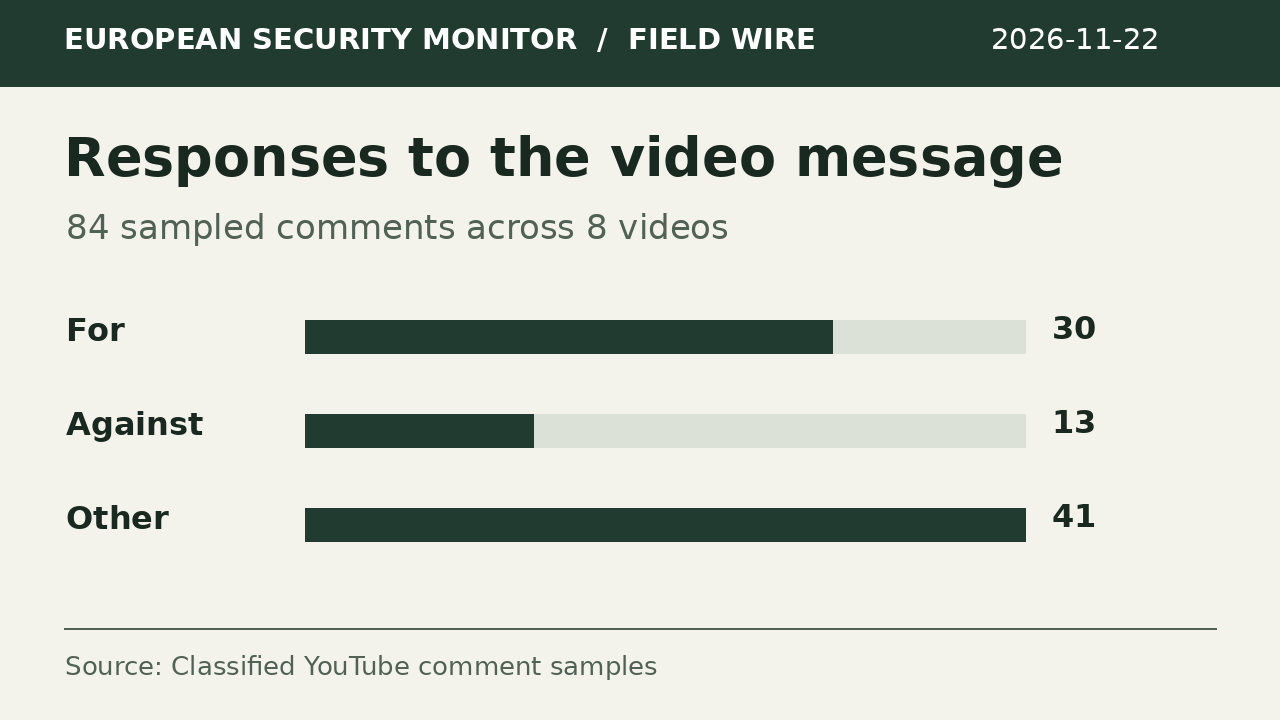
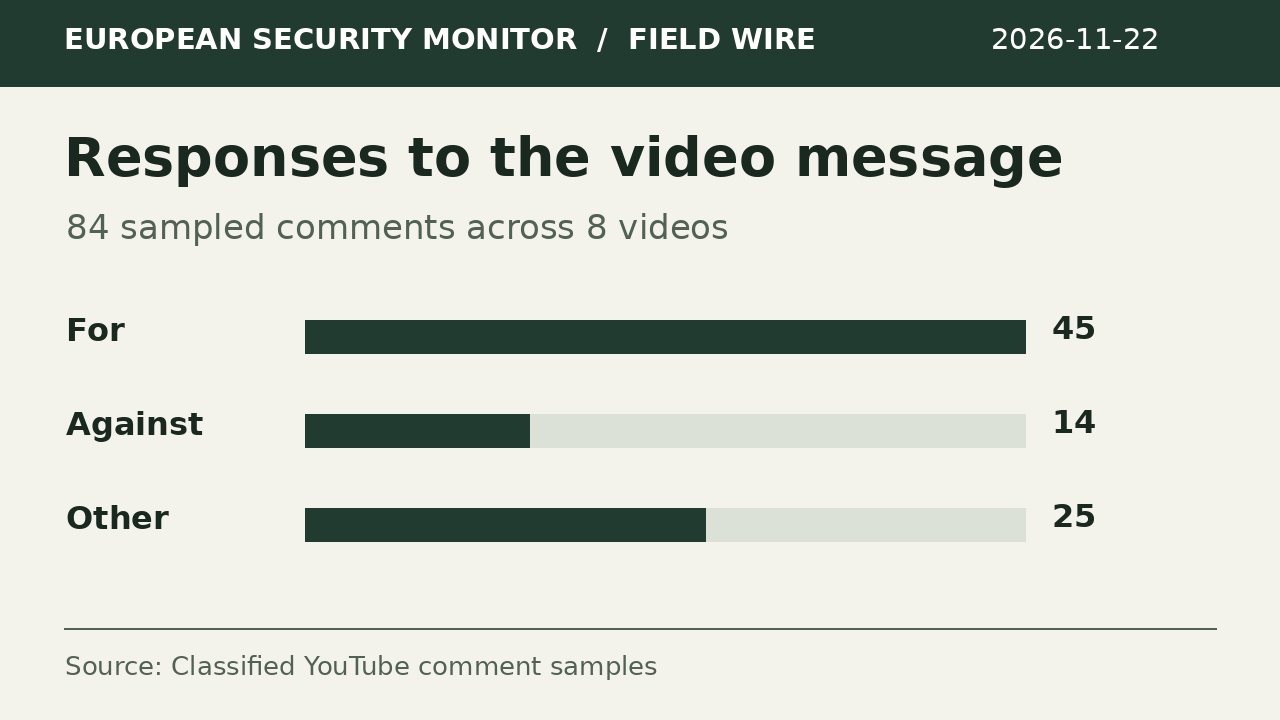
Publish Field Wire edition

Changed region(s): [[0.5312, 0.7028, 0.875, 0.7639], [0.625, 0.4278, 0.875, 0.4889], [0.8438, 0.5806, 0.875, 0.6111]]

diff --git a/editions/2026-11-22/index.html b/editions/2026-11-22/index.html
@@ -1,7 +1,7 @@
 <!doctype html><html lang="en"><head><meta charset="utf-8"><meta name="viewport" content="width=device-width,initial-scale=1">
-<title>Field Wire · 2026-11-22 | European Security Monitor</title><meta name="description" content="2026-11-22 · 84 sampled comments across 8 videos. For 30, Against 13, Other 41.">
+<title>Field Wire · 2026-11-22 | European Security Monitor</title><meta name="description" content="2026-11-22 · 84 sampled comments across 8 videos. For 45, Against 14, Other 25.">
 <meta name="author" content="Kedma Hamelberg"><meta name="robots" content="max-image-preview:large">
-<link rel="canonical" href="https://monitor.hamelberg-ai.com/field-wire/2026-11-22/"><meta property="og:url" content="https://monitor.hamelberg-ai.com/field-wire/2026-11-22/"><meta property="og:title" content="Field Wire · 2026-11-22 | European Security Monitor"><meta property="og:description" content="2026-11-22 · 84 sampled comments across 8 videos. For 30, Against 13, Other 41."><meta property="og:image" content="https://monitor.hamelberg-ai.com/field-wire/2026-11-22/preview.png"><meta property="og:image:width" content="1280"><meta property="og:image:height" content="720"><meta property="og:image:alt" content="Responses to the video message. 84 sampled comments across 8 videos. For 30, Against 13, Other 41."><meta name="twitter:card" content="summary_large_image"><meta name="twitter:image" content="https://monitor.hamelberg-ai.com/field-wire/2026-11-22/preview.png">
+<link rel="canonical" href="https://monitor.hamelberg-ai.com/field-wire/2026-11-22/"><meta property="og:url" content="https://monitor.hamelberg-ai.com/field-wire/2026-11-22/"><meta property="og:title" content="Field Wire · 2026-11-22 | European Security Monitor"><meta property="og:description" content="2026-11-22 · 84 sampled comments across 8 videos. For 45, Against 14, Other 25."><meta property="og:image" content="https://monitor.hamelberg-ai.com/field-wire/2026-11-22/preview.png"><meta property="og:image:width" content="1280"><meta property="og:image:height" content="720"><meta property="og:image:alt" content="Responses to the video message. 84 sampled comments across 8 videos. For 45, Against 14, Other 25."><meta name="twitter:card" content="summary_large_image"><meta name="twitter:image" content="https://monitor.hamelberg-ai.com/field-wire/2026-11-22/preview.png">
 <link rel="stylesheet" href="/field-wire/wire.css?v=edition1"><script defer src="/field-wire/wire.js?v=ledger1"></script><script defer src="/field-wire/engagement.js?v=edition1"></script><script defer src="/analytics.js"></script></head>
 <body data-edition="/field-wire/2026-11-22/"><a class="skip" href="#main">Skip to dispatches</a><header><a class="brand" href="/">⌖ ESM</a><nav aria-label="Main navigation"><a href="/#monitor">Situation room</a><a aria-current="page" href="/field-wire/">Field Wire</a><a href="/#government">Government narratives</a><a href="/#evidence">Source archive</a><a href="/#methodology">Methods</a></nav></header>
 <main id="main"><div class="mast"><div><small>European Security Monitor</small><h1>Field Wire · 2026-11-22</h1></div><div class="edition">Latest source date<br><time>2026-11-22</time></div></div>
@@ -9,8 +9,8 @@
 <div class="layout"><section id="dispatches"><div class="section-head"><h2>Dispatch log</h2><div id="filters" hidden><button data-filter="All" aria-pressed="true">All</button><button data-filter="Gov" aria-pressed="false">Government</button><button data-filter="Video" aria-pressed="false">YouTube</button></div></div>
 <table class="dispatches"><thead><tr><th scope="col">Filed</th><th scope="col">Dispatch</th><th scope="col">Visual</th></tr></thead><tbody><tr id="gov-cebdeb74bba71c9b0eca" data-wire="gov-cebdeb74bba71c9b0eca" data-desk="Gov"><td class="stamp"><time datetime="2026-11-22">22 Nov</time><b>Gov</b></td><td class="copy"><h3>Portugal’s SIRESP exercise tests emergency communications resilience during simulated digital-system failure.</h3><small>Portugal · <a class="source" href="/?record=cebdeb74bba71c9b0eca#government">Source ↗</a></small></td><td class="visual"><figure class="activity"><b>PT</b><div class="pulse"><i style="height:100.0%"><span>6</span></i><i style="height:16.7%"><span>1</span></i><i style="height:16.7%"><span>1</span></i><i style="height:0.0%"><span>0</span></i><i style="height:0.0%"><span>0</span></i><i style="height:0.0%"><span>0</span></i><i style="height:16.7%"><span>1</span></i></div><figcaption>Related releases · 16 Nov–22 Nov</figcaption></figure></td></tr><tr id="gov-91719fb852b116f94267-f6640e4eee86" data-wire="gov-91719fb852b116f94267" data-desk="Gov"><td class="stamp"><time datetime="2026-11-21">21 Nov</time><b>Gov</b></td><td class="copy"><h3>UK and Netherlands leaders pledge continued support for Ukraine and pressure on Russia to negotiate.</h3><small>United Kingdom · <a class="source" href="/?record=91719fb852b116f94267#government">Source ↗</a></small></td><td class="visual"><figure class="activity"><b>GB</b><div class="pulse"><i style="height:0.0%"><span>0</span></i><i style="height:25.0%"><span>1</span></i><i style="height:0.0%"><span>0</span></i><i style="height:25.0%"><span>1</span></i><i style="height:50.0%"><span>2</span></i><i style="height:100.0%"><span>4</span></i><i style="height:25.0%"><span>1</span></i></div><figcaption>Related releases · 15 Nov–21 Nov</figcaption></figure></td></tr><tr id="gov-0513b16aca4002401dda" data-wire="gov-0513b16aca4002401dda" data-desk="Gov"><td class="stamp"><time datetime="2026-11-21">21 Nov</time><b>Gov</b></td><td class="copy"><h3>Merz calls for an affordable EU budget that strengthens defence and provides sustained support for Ukraine.</h3><small>Germany · <a class="source" href="/?record=0513b16aca4002401dda#government">Source ↗</a></small></td><td class="visual"><figure class="activity"><b>DE</b><div class="pulse"><i style="height:0.0%"><span>0</span></i><i style="height:25.0%"><span>1</span></i><i style="height:0.0%"><span>0</span></i><i style="height:25.0%"><span>1</span></i><i style="height:25.0%"><span>1</span></i><i style="height:100.0%"><span>4</span></i><i style="height:50.0%"><span>2</span></i></div><figcaption>Related releases · 15 Nov–21 Nov</figcaption></figure></td></tr><tr id="gov-e30c8772afa0c62b064b" data-wire="gov-e30c8772afa0c62b064b" data-desk="Gov"><td class="stamp"><time datetime="2026-11-21">21 Nov</time><b>Gov</b></td><td class="copy"><h3>Germany, Spain and France back ARTE’s expansion in Spain as a step toward a pluralistic European media ecosystem.</h3><small>Germany · <a class="source" href="/?record=e30c8772afa0c62b064b#government">Source ↗</a></small></td><td class="visual"><figure class="activity"><b>DE</b><div class="pulse"><i style="height:0.0%"><span>0</span></i><i style="height:25.0%"><span>1</span></i><i style="height:0.0%"><span>0</span></i><i style="height:25.0%"><span>1</span></i><i style="height:25.0%"><span>1</span></i><i style="height:100.0%"><span>4</span></i><i style="height:50.0%"><span>2</span></i></div><figcaption>Related releases · 15 Nov–21 Nov</figcaption></figure></td></tr><tr id="gov-fb461a0791d57f9e1104" data-wire="gov-fb461a0791d57f9e1104" data-desk="Gov"><td class="stamp"><time datetime="2026-11-21">21 Nov</time><b>Gov</b></td><td class="copy"><h3>The Netherlands culls infected birds and imposes transport restrictions to contain avian influenza.</h3><small>Netherlands · <a class="source" href="/?record=fb461a0791d57f9e1104#government">Source ↗</a></small></td><td class="visual"><figure class="activity"><b>NL</b><div class="pulse"><i style="height:25.0%"><span>1</span></i><i style="height:75.0%"><span>3</span></i><i style="height:75.0%"><span>3</span></i><i style="height:25.0%"><span>1</span></i><i style="height:100.0%"><span>4</span></i><i style="height:100.0%"><span>4</span></i><i style="height:25.0%"><span>1</span></i></div><figcaption>Related releases · 15 Nov–21 Nov</figcaption></figure></td></tr><tr id="gov-516836f0e6b103151610" data-wire="gov-516836f0e6b103151610" data-desk="Gov"><td class="stamp"><time datetime="2026-11-21">21 Nov</time><b>Gov</b></td><td class="copy"><h3>Iceland links climate risks and imported fossil-fuel dependence to security, and backs ocean monitoring and geothermal energy.</h3><small>Iceland · <a class="source" href="/?record=516836f0e6b103151610#government">Source ↗</a></small></td><td class="visual"><figure class="activity"><b>IS</b><div class="pulse"><i style="height:33.3%"><span>1</span></i><i style="height:33.3%"><span>1</span></i><i style="height:33.3%"><span>1</span></i><i style="height:100.0%"><span>3</span></i><i style="height:0.0%"><span>0</span></i><i style="height:66.7%"><span>2</span></i><i style="height:33.3%"><span>1</span></i></div><figcaption>Related releases · 15 Nov–21 Nov</figcaption></figure></td></tr><tr id="gov-0dbe2bdd816600655a1a" data-wire="gov-0dbe2bdd816600655a1a" data-desk="Gov"><td class="stamp"><time datetime="2026-11-21">21 Nov</time><b>Gov</b></td><td class="copy"><h3>Italy condemns security incidents affecting Denmark and Poland and calls for united European action.</h3><small>Italy · <a class="source" href="/?record=0dbe2bdd816600655a1a#government">Source ↗</a></small></td><td class="visual"><figure class="activity"><b>IT</b><div class="pulse"><i style="height:100.0%"><span>1</span></i><i style="height:100.0%"><span>1</span></i><i style="height:0.0%"><span>0</span></i><i style="height:0.0%"><span>0</span></i><i style="height:0.0%"><span>0</span></i><i style="height:0.0%"><span>0</span></i><i style="height:100.0%"><span>1</span></i></div><figcaption>Related releases · 15 Nov–21 Nov</figcaption></figure></td></tr><tr id="gov-58195c888455c8fbf5ad" data-wire="gov-58195c888455c8fbf5ad" data-desk="Gov"><td class="stamp"><time datetime="2026-11-21">21 Nov</time><b>Gov</b></td><td class="copy"><h3>Pashinyan promotes Armenia’s AI hub ambitions and energy independence through renewables, storage and regional grid links.</h3><small>Armenia · <a class="source" href="/?record=58195c888455c8fbf5ad#government">Source ↗</a></small></td><td class="visual"><figure class="activity"><b>AM</b><div class="pulse"><i style="height:100.0%"><span>1</span></i><i style="height:0.0%"><span>0</span></i><i style="height:0.0%"><span>0</span></i><i style="height:0.0%"><span>0</span></i><i style="height:100.0%"><span>1</span></i><i style="height:0.0%"><span>0</span></i><i style="height:100.0%"><span>1</span></i></div><figcaption>Related releases · 15 Nov–21 Nov</figcaption></figure></td></tr><tr id="video-5SP3QCCecAQ" data-wire="video-5SP3QCCecAQ" data-desk="Video"><td class="stamp"><time datetime="2026-11-21">21 Nov</time><b>Video</b></td><td class="copy"><h3>Historical border that cut Croatia in two and persisted into modern times.</h3><small>Map Gaps Daily · <a class="source" href="/?record=5SP3QCCecAQ&amp;week=2026-W47#evidence">Source ↗</a></small></td><td class="visual"><figure class="cover"><img alt="" width="320" height="180" src="https://i.ytimg.com/vi/5SP3QCCecAQ/mqdefault.jpg"></figure></td></tr><tr id="video-55rbep7vYbc" data-wire="video-55rbep7vYbc" data-desk="Video"><td class="stamp"><time datetime="2026-11-21">21 Nov</time><b>Video</b></td><td class="copy"><h3>Opposition leader Isak Ember says Azerbaijan prevented his travel abroad, highlighting limits on exit from the country.</h3><small>BBC News Azərbaycanca · <a class="source" href="/?record=55rbep7vYbc&amp;week=2026-W47#evidence">Source ↗</a></small></td><td class="visual"><figure class="cover"><img alt="" width="320" height="180" src="https://i.ytimg.com/vi/55rbep7vYbc/mqdefault.jpg"></figure></td></tr><tr id="video-4ALbwIEyRI4" data-wire="video-4ALbwIEyRI4" data-desk="Video"><td class="stamp"><time datetime="2026-11-21">21 Nov</time><b>Video</b></td><td class="copy"><h3>The Ottoman Empire uniquely opposed recognizing Poland&#x27;s partition, contrasting with France, Britain, and Russia/Prussia.</h3><small>Ancient History Lol · <a class="source" href="/?record=4ALbwIEyRI4&amp;week=2026-W47#evidence">Source ↗</a></small></td><td class="visual"><figure class="cover"><img alt="" width="320" height="180" src="https://i.ytimg.com/vi/4ALbwIEyRI4/mqdefault.jpg"></figure></td></tr><tr id="video-1y5_cS93beM" data-wire="video-1y5_cS93beM" data-desk="Video"><td class="stamp"><time datetime="2026-11-21">21 Nov</time><b>Video</b></td><td class="copy"><h3>Historical narration of Portugal’s 1543 contact with Japan, including initial Portuguese presence and trade.</h3><small>itsaihistory · <a class="source" href="/?record=1y5_cS93beM&amp;week=2026-W47#evidence">Source ↗</a></small></td><td class="visual"><figure class="cover"><img alt="" width="320" height="180" src="https://i.ytimg.com/vi/1y5_cS93beM/mqdefault.jpg"></figure></td></tr><tr id="video-2NU6dEmhu6E" data-wire="video-2NU6dEmhu6E" data-desk="Video"><td class="stamp"><time datetime="2026-11-21">21 Nov</time><b>Video</b></td><td class="copy"><h3>Azerbaijan expresses condolences and solidarity with Georgia after a deadly explosion inPanechal.</h3><small>GeorgiaPress · <a class="source" href="/?record=2NU6dEmhu6E&amp;week=2026-W47#evidence">Source ↗</a></small></td><td class="visual"><figure class="cover"><img alt="" width="320" height="180" src="https://i.ytimg.com/vi/2NU6dEmhu6E/mqdefault.jpg"></figure></td></tr><tr id="video--TOoQqbA7Ys" data-wire="video--TOoQqbA7Ys" data-desk="Video"><td class="stamp"><time datetime="2026-11-20">20 Nov</time><b>Video</b></td><td class="copy"><h3>A historical map animation shows real borders of the Portuguese Empire, flags by era, and a land-left counter, inviting discussion on which empire falls next.</h3><small>QzQGeo · <a class="source" href="/?record=-TOoQqbA7Ys&amp;week=2026-W47#evidence">Source ↗</a></small></td><td class="visual"><figure class="cover"><img alt="" width="320" height="180" src="https://i.ytimg.com/vi/-TOoQqbA7Ys/mqdefault.jpg"></figure></td></tr><tr id="video-_R41YwshfYI" data-wire="video-_R41YwshfYI" data-desk="Video"><td class="stamp"><time datetime="2026-11-20">20 Nov</time><b>Video</b></td><td class="copy"><h3>Greece’s prime minister describes a post-crisis rebound with debt reduction and rising investment, highlighting fiscal responsibility.</h3><small>The Wall Street Journal · <a class="source" href="/?record=_R41YwshfYI&amp;week=2026-W47#evidence">Source ↗</a></small></td><td class="visual"><figure class="cover"><img alt="" width="320" height="180" src="https://i.ytimg.com/vi/_R41YwshfYI/mqdefault.jpg"></figure></td></tr><tr id="video-_rIE5RmeKDI" data-wire="video-_rIE5RmeKDI" data-desk="Video"><td class="stamp"><time datetime="2026-11-20">20 Nov</time><b>Video</b></td><td class="copy"><h3>Humorous claim about Switzerland invading Liechtenstein despite neutrality; treats neutrality as a joke.</h3><small>Mapa y Fronteras · <a class="source" href="/?record=_rIE5RmeKDI&amp;week=2026-W47#evidence">Source ↗</a></small></td><td class="visual"><figure class="cover"><img alt="" width="320" height="180" src="https://i.ytimg.com/vi/_rIE5RmeKDI/mqdefault.jpg"></figure></td></tr></tbody></table></section>
 <div class="rail"><section id="audience"><div class="section-head"><h2>Audience reports</h2></div><p class="table-note">Latest classified sample for each video. For and Against count responses to its message. Other includes mixed, unclear, unrelated and no position.</p>
-<table class="reports"><thead><tr><th scope="col">Viewer response / video</th><th scope="col">Total</th><th scope="col">For</th><th scope="col">Against</th><th scope="col">Other</th></tr></thead><tbody><tr id="comments-2026-W47-4ALbwIEyRI4" data-wire="comments-2026-W47-4ALbwIEyRI4"><td class="copy"><h3>5 of 8 backed the message.</h3><p class="video-context">Video: The Ottoman Empire uniquely opposed recognizing Poland&#x27;s partition, contrasting with France, Britain, and Russia/Prussia.</p><a class="source" href="/?record=4ALbwIEyRI4&amp;week=2026-W47#evidence">Source ↗</a><small>Ancient History Lol · 2026-W47</small></td><td class="num">8</td><td class="num positive">5</td><td class="num negative">1</td><td class="num" title="opposes 1, supports 5, unrelated 2">2</td></tr><tr id="comments-2026-W47-1y5_cS93beM" data-wire="comments-2026-W47-1y5_cS93beM"><td class="copy"><h3>0 backed the message and 2 opposed it (9 sampled).</h3><p class="video-context">Video: Historical narration of Portugal’s 1543 contact with Japan, including initial Portuguese presence and trade.</p><a class="source" href="/?record=1y5_cS93beM&amp;week=2026-W47#evidence">Source ↗</a><small>itsaihistory · 2026-W47</small></td><td class="num">9</td><td class="num positive">0</td><td class="num negative">2</td><td class="num" title="no position 1, opposes 2, unclear 3, unrelated 3">7</td></tr><tr id="comments-2026-W47-2NU6dEmhu6E" data-wire="comments-2026-W47-2NU6dEmhu6E"><td class="copy"><h3>5 of 5 backed the message.</h3><p class="video-context">Video: Azerbaijan expresses condolences and solidarity with Georgia after a deadly explosion inPanechal.</p><a class="source" href="/?record=2NU6dEmhu6E&amp;week=2026-W47#evidence">Source ↗</a><small>GeorgiaPress · 2026-W47</small></td><td class="num">5</td><td class="num positive">5</td><td class="num negative">0</td><td class="num" title="supports 5">0</td></tr><tr id="comments-2026-W47--TOoQqbA7Ys" data-wire="comments-2026-W47--TOoQqbA7Ys"><td class="copy"><h3>3 of 7 discussed something else.</h3><p class="video-context">Video: A historical map animation shows real borders of the Portuguese Empire, flags by era, and a land-left counter, inviting discussion on which empire falls next.</p><a class="source" href="/?record=-TOoQqbA7Ys&amp;week=2026-W47#evidence">Source ↗</a><small>QzQGeo · 2026-W47</small></td><td class="num">7</td><td class="num positive">2</td><td class="num negative">0</td><td class="num" title="supports 2, unclear 2, unrelated 3">5</td></tr><tr id="comments-2026-W47-_R41YwshfYI" data-wire="comments-2026-W47-_R41YwshfYI"><td class="copy"><h3>6 of 13 backed the message.</h3><p class="video-context">Video: Greece’s prime minister describes a post-crisis rebound with debt reduction and rising investment, highlighting fiscal responsibility.</p><a class="source" href="/?record=_R41YwshfYI&amp;week=2026-W47#evidence">Source ↗</a><small>The Wall Street Journal · 2026-W47</small></td><td class="num">13</td><td class="num positive">6</td><td class="num negative">3</td><td class="num" title="opposes 3, supports 6, unrelated 4">4</td></tr><tr id="comments-2026-W47-_rIE5RmeKDI" data-wire="comments-2026-W47-_rIE5RmeKDI"><td class="copy"><h3>6 of 9 backed the message.</h3><p class="video-context">Video: Humorous claim about Switzerland invading Liechtenstein despite neutrality; treats neutrality as a joke.</p><a class="source" href="/?record=_rIE5RmeKDI&amp;week=2026-W47#evidence">Source ↗</a><small>Mapa y Fronteras · 2026-W47</small></td><td class="num">9</td><td class="num positive">6</td><td class="num negative">3</td><td class="num" title="opposes 3, supports 6">0</td></tr><tr id="comments-2026-W47-0SatFMYQjcw" data-wire="comments-2026-W47-0SatFMYQjcw"><td class="copy"><h3>2 of 3 took no position.</h3><p class="video-context">Video: Question for Montenegrins about a possible Serbia-Montenegro union and giving up the capital Podgorica.</p><a class="source" href="/?record=0SatFMYQjcw&amp;week=2026-W47#evidence">Source ↗</a><small>DailyShortsKnowledge · 2026-W47</small></td><td class="num">3</td><td class="num positive">0</td><td class="num negative">1</td><td class="num" title="no position 2, opposes 1">2</td></tr><tr id="comments-2026-W47-2AorXjWxihs" data-wire="comments-2026-W47-2AorXjWxihs"><td class="copy"><h3>9 of 30 discussed something else.</h3><p class="video-context">Video: Video fragment includes a call to &#x27;Germany, stop!&#x27; reflecting a war-related tension.</p><a class="source" href="/?record=2AorXjWxihs&amp;week=2026-W47#evidence">Source ↗</a><small>BorderBall · 2026-W47</small></td><td class="num">30</td><td class="num positive">6</td><td class="num negative">3</td><td class="num" title="no position 7, opposes 3, supports 6, unclear 5, unrelated 9">21</td></tr></tbody></table></section>
-<figure class="edition-chart"><a href="https://monitor.hamelberg-ai.com/field-wire/2026-11-22/preview.png"><img src="https://monitor.hamelberg-ai.com/field-wire/2026-11-22/preview.png" width="1280" height="720" loading="lazy" alt="Responses to the video message. 84 sampled comments across 8 videos. For 30, Against 13, Other 41."></a><figcaption><b>Responses to the video message</b> 84 sampled comments across 8 videos. For 30, Against 13, Other 41. <a href="/field-wire/2026-11-22/#audience">Classified YouTube comment samples</a></figcaption></figure><aside class="ad-reserve" aria-label="Reserved advertisement space"><span>Advertisements</span></aside></div></div><section><h2>Earlier filings</h2><table><thead><tr><th scope="col">Filed</th><th scope="col">Dispatch</th><th scope="col">Visual</th></tr></thead><tbody><tr id="gov-3c005ad190ec02d63761" data-wire="gov-3c005ad190ec02d63761" data-desk="Gov"><td class="stamp"><time datetime="2026-11-21">21 Nov</time><b>Gov</b></td><td class="copy"><h3>Li and Wong call for closer China-Singapore ties, regional integration and cooperation across multiple sectors.</h3><small>China · <a class="source" href="/?record=3c005ad190ec02d63761#government">Source ↗</a></small></td><td class="visual"><figure class="activity"><b>CN</b><div class="pulse"><i style="height:0.0%"><span>0</span></i><i style="height:25.0%"><span>2</span></i><i style="height:62.5%"><span>5</span></i><i style="height:75.0%"><span>6</span></i><i style="height:100.0%"><span>8</span></i><i style="height:100.0%"><span>8</span></i><i style="height:12.5%"><span>1</span></i></div><figcaption>Related releases · 15 Nov–21 Nov</figcaption></figure></td></tr></tbody></table><table><thead><tr><th scope="col">Filed</th><th scope="col">Dispatch</th><th scope="col">Visual</th></tr></thead><tbody><tr id="gov-91719fb852b116f94267" data-wire="gov-91719fb852b116f94267" data-desk="Gov"><td class="stamp"><time datetime="2026-11-21">21 Nov</time><b>Gov</b></td><td class="copy"><h3>UK and Netherlands leaders pledge continued support for Ukraine and pressure on Russia to negotiate.</h3><small>United Kingdom · <a class="source" href="/?record=91719fb852b116f94267#government">Source ↗</a></small></td><td class="visual"><figure class="activity"><b>GB</b><div class="pulse"><i style="height:0.0%"><span>0</span></i><i style="height:33.3%"><span>1</span></i><i style="height:0.0%"><span>0</span></i><i style="height:33.3%"><span>1</span></i><i style="height:66.7%"><span>2</span></i><i style="height:100.0%"><span>3</span></i><i style="height:33.3%"><span>1</span></i></div><figcaption>Related releases · 15 Nov–21 Nov</figcaption></figure></td></tr></tbody></table></section></main>
+<table class="reports"><thead><tr><th scope="col">Viewer response / video</th><th scope="col">Total</th><th scope="col">For</th><th scope="col">Against</th><th scope="col">Other</th></tr></thead><tbody><tr id="comments-2026-W47-4ALbwIEyRI4" data-wire="comments-2026-W47-4ALbwIEyRI4"><td class="copy"><h3>5 of 8 backed the message.</h3><p class="video-context">Video: The Ottoman Empire uniquely opposed recognizing Poland&#x27;s partition, contrasting with France, Britain, and Russia/Prussia.</p><a class="source" href="/?record=4ALbwIEyRI4&amp;week=2026-W47#evidence">Source ↗</a><small>Ancient History Lol · 2026-W47</small></td><td class="num">8</td><td class="num positive">5</td><td class="num negative">1</td><td class="num" title="opposes 1, supports 5, unrelated 2">2</td></tr><tr id="comments-2026-W47-1y5_cS93beM-022e97e0839b" data-wire="comments-2026-W47-1y5_cS93beM"><td class="copy"><h3>5 of 9 backed the message.</h3><p class="video-context">Video: Historical narration of Portugal’s 1543 contact with Japan, including initial Portuguese presence and trade.</p><a class="source" href="/?record=1y5_cS93beM&amp;week=2026-W47#evidence">Source ↗</a><small>itsaihistory · 2026-W47</small></td><td class="num">9</td><td class="num positive">5</td><td class="num negative">1</td><td class="num" title="mixed 2, opposes 1, supports 5, unrelated 1">3</td></tr><tr id="comments-2026-W47-2NU6dEmhu6E" data-wire="comments-2026-W47-2NU6dEmhu6E"><td class="copy"><h3>5 of 5 backed the message.</h3><p class="video-context">Video: Azerbaijan expresses condolences and solidarity with Georgia after a deadly explosion inPanechal.</p><a class="source" href="/?record=2NU6dEmhu6E&amp;week=2026-W47#evidence">Source ↗</a><small>GeorgiaPress · 2026-W47</small></td><td class="num">5</td><td class="num positive">5</td><td class="num negative">0</td><td class="num" title="supports 5">0</td></tr><tr id="comments-2026-W47--TOoQqbA7Ys" data-wire="comments-2026-W47--TOoQqbA7Ys"><td class="copy"><h3>3 of 7 discussed something else.</h3><p class="video-context">Video: A historical map animation shows real borders of the Portuguese Empire, flags by era, and a land-left counter, inviting discussion on which empire falls next.</p><a class="source" href="/?record=-TOoQqbA7Ys&amp;week=2026-W47#evidence">Source ↗</a><small>QzQGeo · 2026-W47</small></td><td class="num">7</td><td class="num positive">2</td><td class="num negative">0</td><td class="num" title="supports 2, unclear 2, unrelated 3">5</td></tr><tr id="comments-2026-W47-_R41YwshfYI" data-wire="comments-2026-W47-_R41YwshfYI"><td class="copy"><h3>6 of 13 backed the message.</h3><p class="video-context">Video: Greece’s prime minister describes a post-crisis rebound with debt reduction and rising investment, highlighting fiscal responsibility.</p><a class="source" href="/?record=_R41YwshfYI&amp;week=2026-W47#evidence">Source ↗</a><small>The Wall Street Journal · 2026-W47</small></td><td class="num">13</td><td class="num positive">6</td><td class="num negative">3</td><td class="num" title="opposes 3, supports 6, unrelated 4">4</td></tr><tr id="comments-2026-W47-_rIE5RmeKDI" data-wire="comments-2026-W47-_rIE5RmeKDI"><td class="copy"><h3>6 of 9 backed the message.</h3><p class="video-context">Video: Humorous claim about Switzerland invading Liechtenstein despite neutrality; treats neutrality as a joke.</p><a class="source" href="/?record=_rIE5RmeKDI&amp;week=2026-W47#evidence">Source ↗</a><small>Mapa y Fronteras · 2026-W47</small></td><td class="num">9</td><td class="num positive">6</td><td class="num negative">3</td><td class="num" title="opposes 3, supports 6">0</td></tr><tr id="comments-2026-W47-0SatFMYQjcw-774a997b5504" data-wire="comments-2026-W47-0SatFMYQjcw"><td class="copy"><h3>2 of 3 backed the message.</h3><p class="video-context">Video: Question for Montenegrins about a possible Serbia-Montenegro union and giving up the capital Podgorica.</p><a class="source" href="/?record=0SatFMYQjcw&amp;week=2026-W47#evidence">Source ↗</a><small>DailyShortsKnowledge · 2026-W47</small></td><td class="num">3</td><td class="num positive">2</td><td class="num negative">1</td><td class="num" title="opposes 1, supports 2">0</td></tr><tr id="comments-2026-W47-2AorXjWxihs-d1b6f55e59bd" data-wire="comments-2026-W47-2AorXjWxihs"><td class="copy"><h3>14 of 30 backed the message.</h3><p class="video-context">Video: Video fragment includes a call to &#x27;Germany, stop!&#x27; reflecting a war-related tension.</p><a class="source" href="/?record=2AorXjWxihs&amp;week=2026-W47#evidence">Source ↗</a><small>BorderBall · 2026-W47</small></td><td class="num">30</td><td class="num positive">14</td><td class="num negative">5</td><td class="num" title="no position 4, opposes 5, supports 14, unclear 4, unrelated 3">11</td></tr></tbody></table></section>
+<figure class="edition-chart"><a href="https://monitor.hamelberg-ai.com/field-wire/2026-11-22/preview.png"><img src="https://monitor.hamelberg-ai.com/field-wire/2026-11-22/preview.png" width="1280" height="720" loading="lazy" alt="Responses to the video message. 84 sampled comments across 8 videos. For 45, Against 14, Other 25."></a><figcaption><b>Responses to the video message</b> 84 sampled comments across 8 videos. For 45, Against 14, Other 25. <a href="/field-wire/2026-11-22/#audience">Classified YouTube comment samples</a></figcaption></figure><aside class="ad-reserve" aria-label="Reserved advertisement space"><span>Advertisements</span></aside></div></div><section><h2>Earlier filings</h2><table><thead><tr><th scope="col">Report</th><th scope="col">Total</th><th scope="col">For</th><th scope="col">Against</th><th scope="col">Other</th></tr></thead><tbody><tr id="comments-2026-W47-0SatFMYQjcw" data-wire="comments-2026-W47-0SatFMYQjcw"><td class="copy"><h3>2 of 3 took no position.</h3><p class="video-context">Video: Question for Montenegrins about a possible Serbia-Montenegro union and giving up the capital Podgorica.</p><a class="source" href="/?record=0SatFMYQjcw&amp;week=2026-W47#evidence">Source ↗</a><small>DailyShortsKnowledge · 2026-W47</small></td><td class="num">3</td><td class="num positive">0</td><td class="num negative">1</td><td class="num" title="no position 2, opposes 1">2</td></tr></tbody></table><table><thead><tr><th scope="col">Report</th><th scope="col">Total</th><th scope="col">For</th><th scope="col">Against</th><th scope="col">Other</th></tr></thead><tbody><tr id="comments-2026-W47-1y5_cS93beM" data-wire="comments-2026-W47-1y5_cS93beM"><td class="copy"><h3>0 backed the message and 2 opposed it (9 sampled).</h3><p class="video-context">Video: Historical narration of Portugal’s 1543 contact with Japan, including initial Portuguese presence and trade.</p><a class="source" href="/?record=1y5_cS93beM&amp;week=2026-W47#evidence">Source ↗</a><small>itsaihistory · 2026-W47</small></td><td class="num">9</td><td class="num positive">0</td><td class="num negative">2</td><td class="num" title="no position 1, opposes 2, unclear 3, unrelated 3">7</td></tr></tbody></table><table><thead><tr><th scope="col">Report</th><th scope="col">Total</th><th scope="col">For</th><th scope="col">Against</th><th scope="col">Other</th></tr></thead><tbody><tr id="comments-2026-W47-2AorXjWxihs" data-wire="comments-2026-W47-2AorXjWxihs"><td class="copy"><h3>9 of 30 discussed something else.</h3><p class="video-context">Video: Video fragment includes a call to &#x27;Germany, stop!&#x27; reflecting a war-related tension.</p><a class="source" href="/?record=2AorXjWxihs&amp;week=2026-W47#evidence">Source ↗</a><small>BorderBall · 2026-W47</small></td><td class="num">30</td><td class="num positive">6</td><td class="num negative">3</td><td class="num" title="no position 7, opposes 3, supports 6, unclear 5, unrelated 9">21</td></tr></tbody></table><table><thead><tr><th scope="col">Filed</th><th scope="col">Dispatch</th><th scope="col">Visual</th></tr></thead><tbody><tr id="gov-3c005ad190ec02d63761" data-wire="gov-3c005ad190ec02d63761" data-desk="Gov"><td class="stamp"><time datetime="2026-11-21">21 Nov</time><b>Gov</b></td><td class="copy"><h3>Li and Wong call for closer China-Singapore ties, regional integration and cooperation across multiple sectors.</h3><small>China · <a class="source" href="/?record=3c005ad190ec02d63761#government">Source ↗</a></small></td><td class="visual"><figure class="activity"><b>CN</b><div class="pulse"><i style="height:0.0%"><span>0</span></i><i style="height:25.0%"><span>2</span></i><i style="height:62.5%"><span>5</span></i><i style="height:75.0%"><span>6</span></i><i style="height:100.0%"><span>8</span></i><i style="height:100.0%"><span>8</span></i><i style="height:12.5%"><span>1</span></i></div><figcaption>Related releases · 15 Nov–21 Nov</figcaption></figure></td></tr></tbody></table><table><thead><tr><th scope="col">Filed</th><th scope="col">Dispatch</th><th scope="col">Visual</th></tr></thead><tbody><tr id="gov-91719fb852b116f94267" data-wire="gov-91719fb852b116f94267" data-desk="Gov"><td class="stamp"><time datetime="2026-11-21">21 Nov</time><b>Gov</b></td><td class="copy"><h3>UK and Netherlands leaders pledge continued support for Ukraine and pressure on Russia to negotiate.</h3><small>United Kingdom · <a class="source" href="/?record=91719fb852b116f94267#government">Source ↗</a></small></td><td class="visual"><figure class="activity"><b>GB</b><div class="pulse"><i style="height:0.0%"><span>0</span></i><i style="height:33.3%"><span>1</span></i><i style="height:0.0%"><span>0</span></i><i style="height:33.3%"><span>1</span></i><i style="height:66.7%"><span>2</span></i><i style="height:100.0%"><span>3</span></i><i style="height:33.3%"><span>1</span></i></div><figcaption>Related releases · 15 Nov–21 Nov</figcaption></figure></td></tr></tbody></table></section></main>
 <dialog id="share-dispatch" aria-labelledby="share-title">
 <form method="dialog"><h2 id="share-title">Share dispatch</h2><button aria-label="Close share options" autofocus>Close</button></form>
 <p class="share-lead"></p><div class="share-choices"></div><span class="share-status" role="status"></span>
